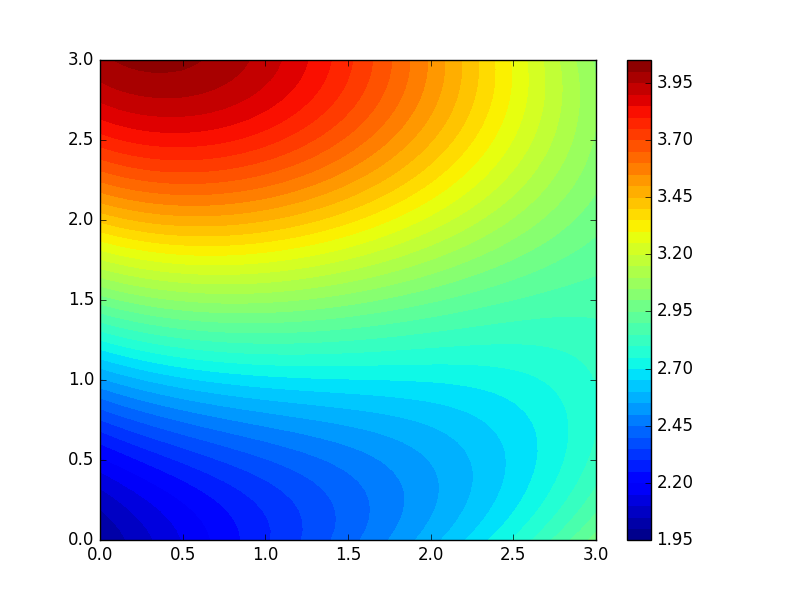
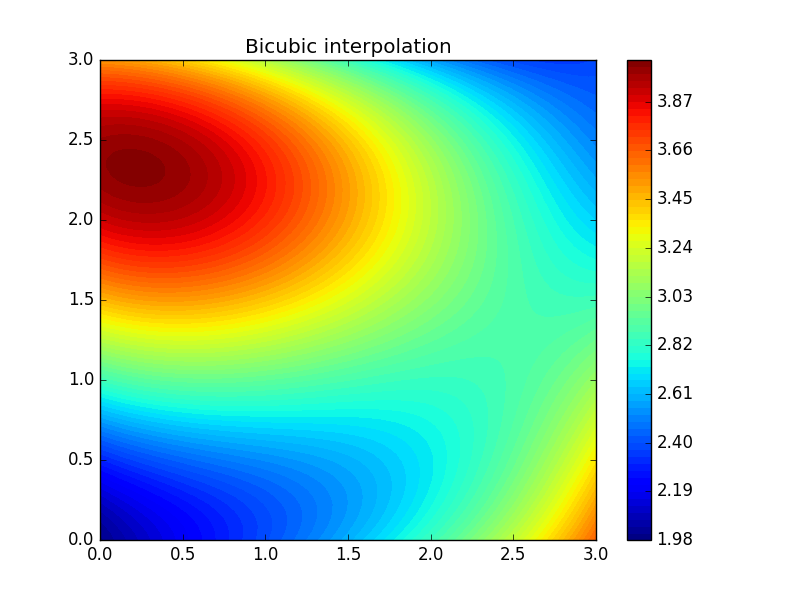
fixed bicubic. Almost at least

diff --git a/exam/mainC.py b/exam/mainC.py
@@ -10,16 +10,17 @@ ny = len(y)
 F = np.zeros((nx,ny))
 n = np.zeros((nx*ny,3))
 steplength = 0.02
-kappa = np.zeros((1/steplength,1/steplength))
+interplength = 1.36
+kappa = np.zeros((interplength/steplength,interplength/steplength))
 
 i = 0
 j = 0
 
 #Define F matrix given a function. Here, it is sqrt(x^2+y^2)
 
-for i in range(len(x)):
-    for j in range(len(y)):
-        F[j][i] = np.sqrt(x[i]*x[i]+y[j]*y[j])
+# for i in range(len(x)):
+#     for j in range(len(y)):
+#         F[j][i] = np.sqrt(x[i]*x[i]+y[j]*y[j])
 
 #Defining F after a matrix with known looks
 
@@ -52,11 +53,11 @@ print qqqq
 count = 0
 px = 0
 countx = 0
-while px < 1:
+while px < interplength:
     county = 0
     count = 1
     py = 0
-    while py < 1:
+    while py < interplength:
         #print count
         count += 1
         kappa[countx,county] = bicubic.bicubiceval(px, py, F)[1]
@@ -65,16 +66,9 @@ while px < 1:
     px += steplength
     countx +=1
 
-
-
-#Plots non-interpolated figure
-plt.figure(1)
-plt.contourf(x,y,F)
-plt.colorbar()
-plt.savefig('noninterpolatedPartC.png',format='png')
-
 #Plots interpolated figure
 plt.figure(2)
+plt.title('Bicubic interpolation')
 plt.contourf(np.linspace(min(x),max(x),countx),np.linspace(min(y),max(y),county),kappa,len(kappa))
 plt.colorbar()
 plt.savefig('interpolatedPartC.png',format='png')

diff --git a/exam/mainB.py b/exam/mainB.py
@@ -64,10 +64,12 @@ while px < max(x):
 plt.figure(1)
 plt.contourf(x,y,F)
 plt.colorbar()
+plt.title('Non-interpolated dataset')
 plt.savefig('noninterpolatedPartB.png',format='png')
 
 #Plots interpolated figure
 plt.figure(2)
 plt.contourf(np.linspace(min(x),max(x),countx),np.linspace(min(y),max(y),county),kappa,len(kappa))
 plt.colorbar()
+plt.title('Bilinear interpolation')
 plt.savefig('interpolatedPartB.png',format='png')

diff --git a/exam/mainA.py b/exam/mainA.py
@@ -45,9 +45,11 @@ while px < 1:
 plt.figure(1)
 plt.contourf(x,y,F)
 plt.colorbar()
+plt.title('Non-interpolated dataset')
 plt.savefig('noninterpolated.png',format='png')
 
 plt.figure(2)
 plt.contourf(np.linspace(0,1,100),np.linspace(0,1,100),kappa,len(kappa))
 plt.colorbar()
+plt.title('Bilinear interpolation')
 plt.savefig('interpolated.png',format='png')

diff --git a/exam/readme.md b/exam/readme.md
@@ -24,3 +24,9 @@ For a rectilinear grid with a given F matrix as a function, the non-interpolated
 
 And with the interpolation algorithm applied:
 ![alt tag](https://github.com/carlegroen/numericalmethods/raw/master/exam/interpolatedPartB.png)
+
+##Part C
+
+As an added bonus, a bicubic interpolation was created as well. The dataset is equivalent to the one in Part B:
+
+![alt tag](https://github.com/carlegroen/numericalmethods/raw/master/exam/interpolatedPartC.png)
